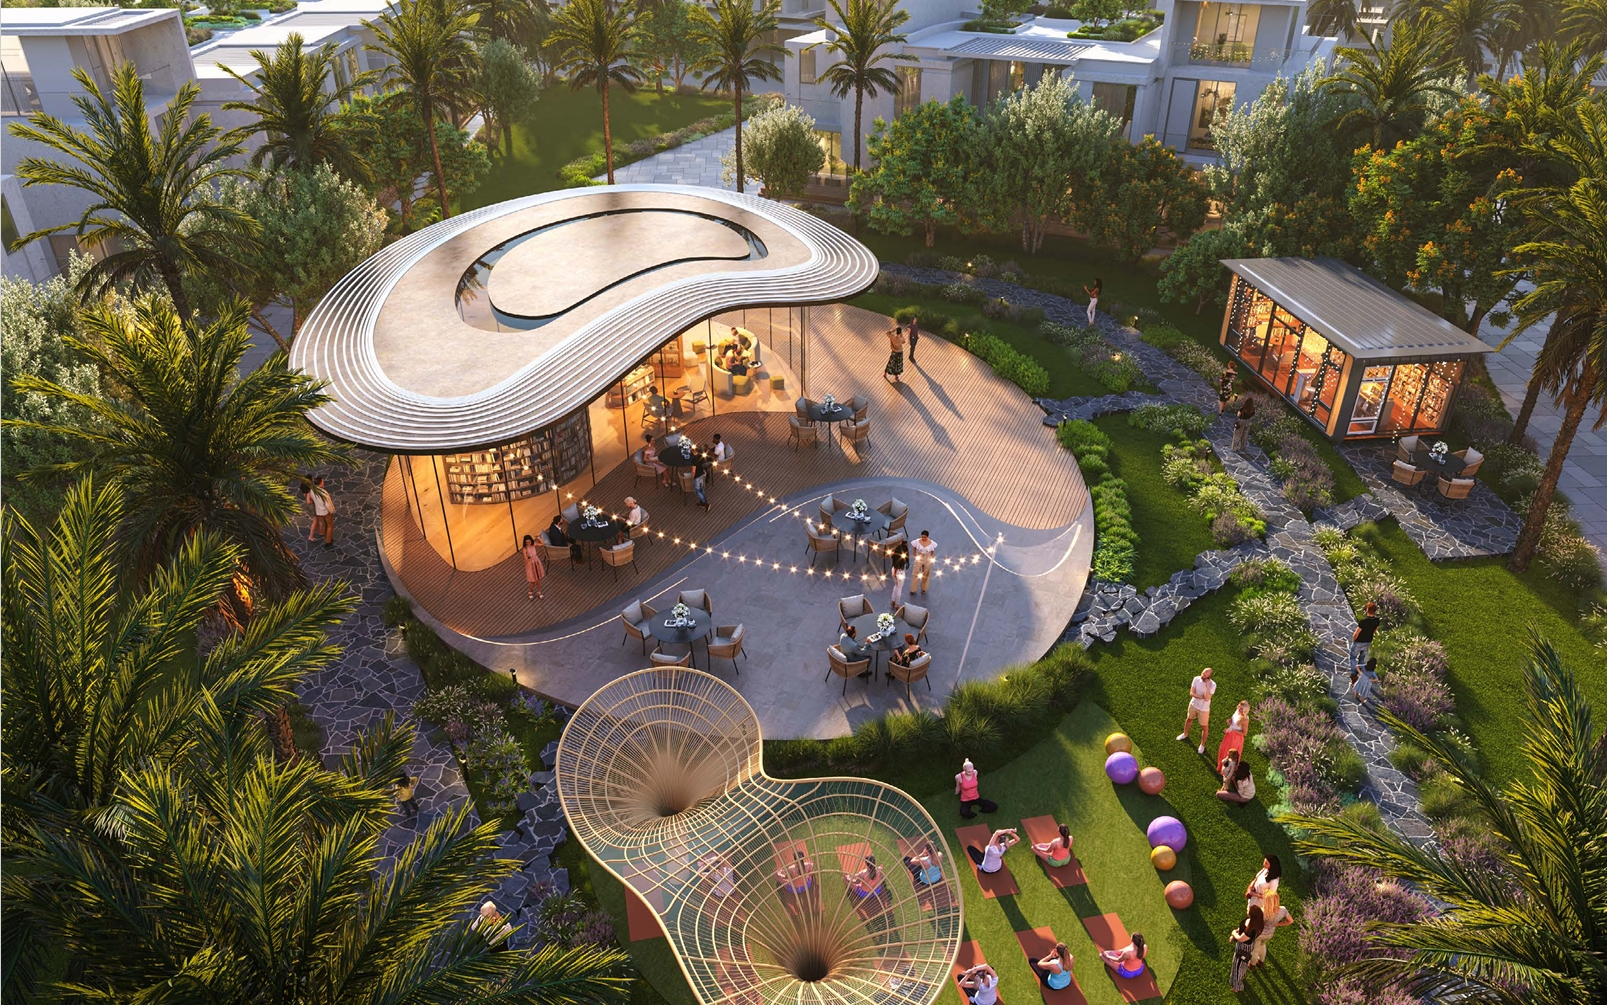
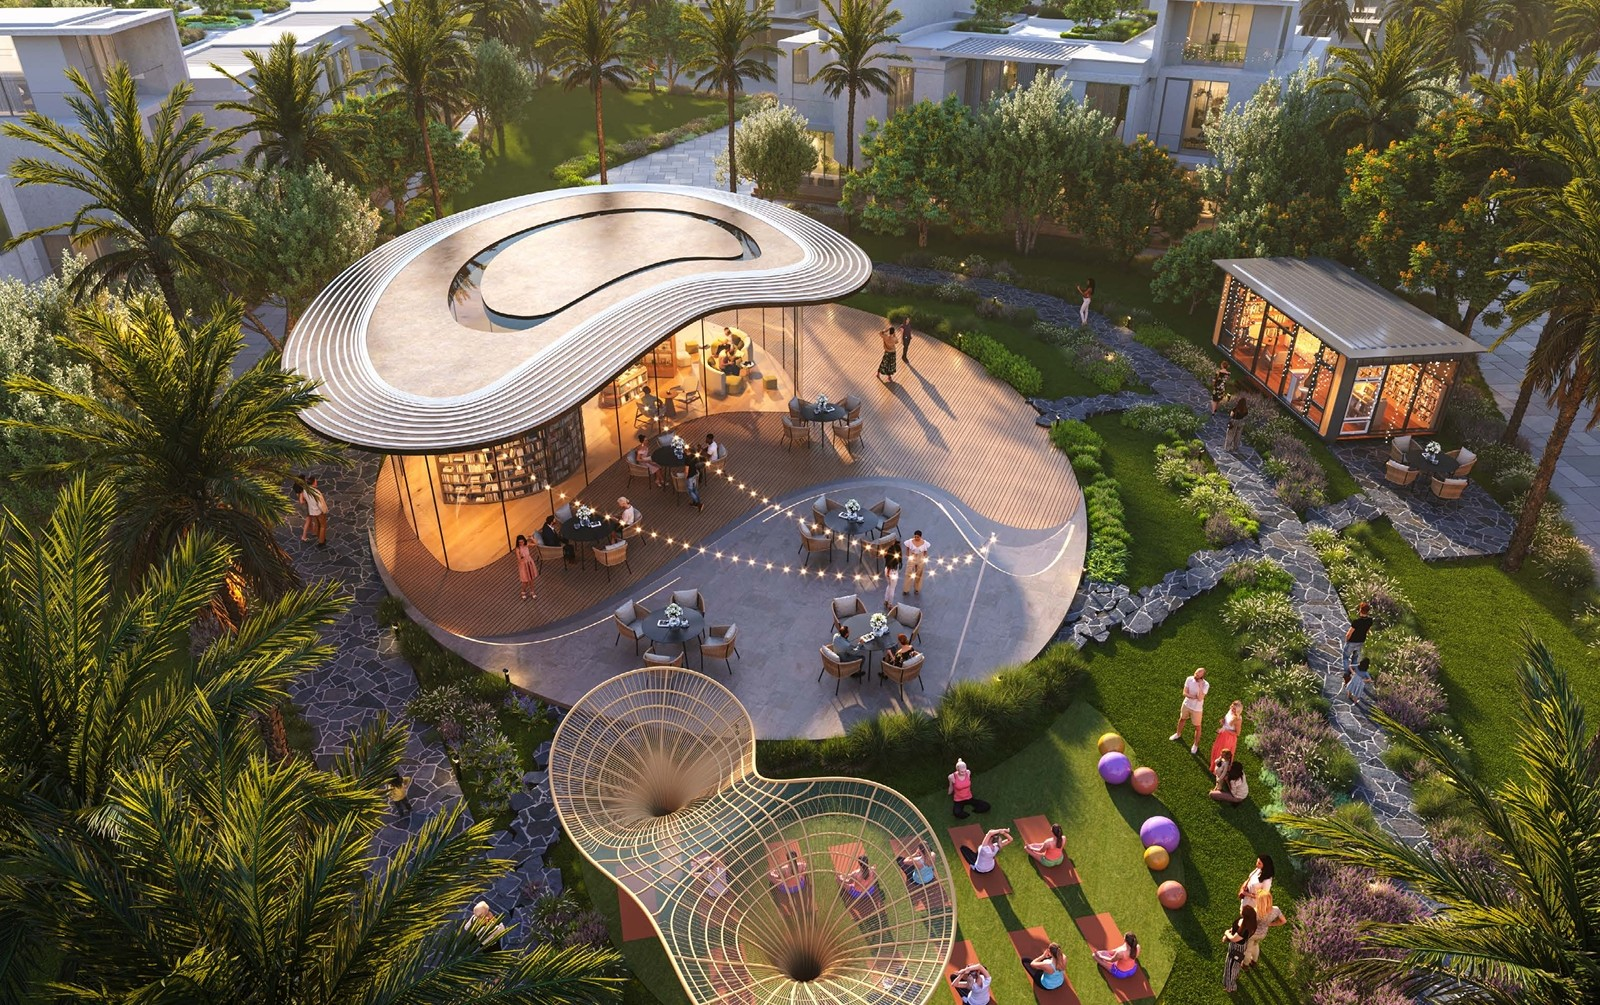
edited another photo and changed a photo of a section

diff --git a/src/app/FourthSection.tsx b/src/app/FourthSection.tsx
@@ -25,7 +25,7 @@ import { MdOutlineLocalLaundryService } from "react-icons/md";
 import { GrLounge } from "react-icons/gr";
 import { GiWaterPolo } from "react-icons/gi";
 import { PiChairThin } from "react-icons/pi";
-import section3 from "./assets/section3.jpeg";
+import section3 from "./assets/section6.webp";
 import a1 from "./assets/amenities/amenities1.jpeg";
 import a2 from "./assets/amenities/amenities2.jpeg";
 import a3 from "./assets/amenities/amenities3.jpeg";
